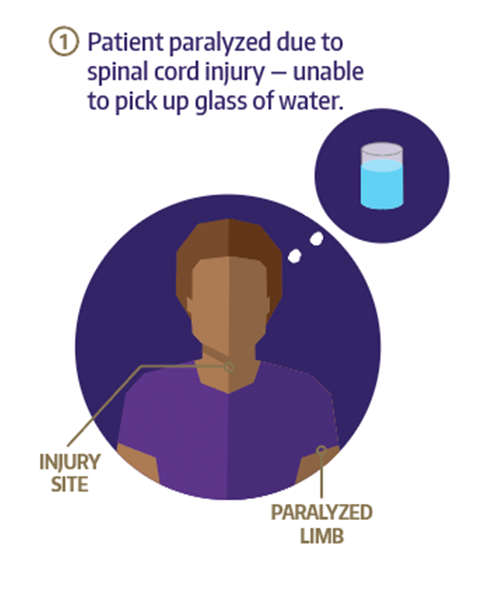
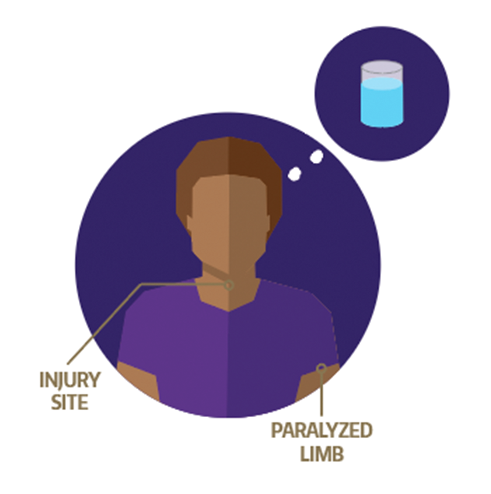
Updates to engineering story

diff --git a/immersive-stories/css/engineering.css b/immersive-stories/css/engineering.css
@@ -1,1 +1,1 @@
-.dropdown-arrow-inverse{border-bottom-color:#4b2e83 !important;border-top-color:#4b2e83 !important}body{width:100%;height:100%}body .uw-footer{margin-top:0}body video::-webkit-media-controls{display:none !important}body video::-webkit-media-controls-start-playback-button{display:none}p{color:#696969}@keyframes slidein{0%{-webkit-transform:translate(0, -100%);-ms-transform:translate(0, -100%);transform:translate(0, -100%);opacity:0}100%{-webkit-transform:translate(0, 0);-ms-transform:translate(0, 0);transform:translate(0, 0);opacity:1}}.intro{background-position:center top;-webkit-background-size:cover;-moz-background-size:cover;background-size:cover;-o-background-size:cover;width:100%;height:105vh;padding:100px 0;text-align:center;color:white;overflow:hidden;text-align:left}.intro h1{font-family:"Uni sans",sans-serif;color:#4b2e83;text-transform:uppercase;font-weight:normal;line-height:1;display:inline-block;position:relative}.intro h1:before,.intro h1:after{content:"";display:block;position:absolute;right:0;height:4px;width:300%;background-color:white}.intro h1:before{top:0}.intro h1:after{bottom:0}.engineerIntro .intro h1>span:first-child span{-webkit-animation:slidein 1.5s .1s ease forwards;animation:slidein 1.5s .1s ease forwards}.engineerIntro .intro h1>span:nth-child(2) span{-webkit-animation:slidein 1.5s .3s ease forwards;animation:slidein 1.5s .3s ease forwards}.engineerIntro .intro h1>span:last-child span{-webkit-animation:slidein 1.5s .5s ease forwards;animation:slidein 1.5s .5s ease forwards}.intro h1>span{overflow:hidden;display:block}.intro h1>span span{display:block;-webkit-transform:translate(0, -100%);-ms-transform:translate(0, -100%);transform:translate(0, -100%)}.intro h1>span:first-child{font-size:3.5vw;letter-spacing:0;margin-top:-10%;margin-bottom:20px}.intro h1>span:nth-child(2){font-family:"Encode Sans Compressed",sans-serif;font-weight:900;letter-spacing:0}.intro p{color:#5A5A5A}.intro .intro-body{position:relative;z-index:2}.intro a.read-more{display:block;position:absolute;left:50%;margin-left:-20px;text-indent:-999px;overflow:hidden;width:40px;height:50px;background:url("../../immersive-stories/img/sprite.svg") 0 0 no-repeat transparent;z-index:1}.intro a.read-more:hover,.intro a.read-more:active,.intro a.read-more:focus{-webkit-transform:translate(0, 10px);-ms-transform:translate(0, 10px);transform:translate(0, 10px)}@media (max-width:768px){.intro{background-image:url("../../immersive-stories/img/engineering/intro-alt-mobile.jpg");padding:0}.intro h1{margin-top:25vh}.intro p{font-size:14px;line-height:1.5}.intro a.read-more{top:calc(100vh - 70px)}.intro .intro-body #intro-text{padding:0 28% 0 20px}}@media (min-width:768px){.intro{background-image:url("../../immersive-stories/img/engineering/jayna.jpg");padding:0}.intro h1{font-size:6vw;margin-top:35vh;letter-spacing:-4px;-webkit-font-smoothing:antialiased}.intro p{padding-right:20%}.intro a.read-more{top:calc(100vh - 95px);bottom:auto}.intro .intro-body .brand-heading{font-size:100px}.intro .intro-body .intro-text{font-size:26px}}@media (min-width:1600px){.intro h1{font-size:6vw}}@media (max-width:400px){.intro h1{margin-top:46vh}.intro .intro-body #intro-text{padding:0}}.text-block{position:relative;z-index:1;background-color:white}.text-block .headline-gold{font-family:"Uni sans",sans-serif;text-align:center;color:#4b2e83;font-size:21px;line-height:1.5;font-weight:bold;text-transform:uppercase;margin-bottom:40px;margin:10px 0 40px}.text-block .headline-gold.left{text-align:left}.text-block .headline-gold a{color:#5f5f5f;border-bottom:1px solid #b7a57a}.text-block .headline-gold a:hover{color:black}.text-block .headline-gold span{font-family:"Encode Sans Compressed",sans-serif;font-weight:900;text-transform:uppercase;color:#4b2e83;display:block;font-size:30px;margin-top:14px;border-top:1px solid #ddd;border-bottom:1px solid #ddd;padding:25px;margin:25px 0 10px}.text-block .gold-quote{position:relative;margin:140px 0 160px;font-weight:bold}.text-block .gold-quote:after,.text-block .gold-quote:before{content:" ";position:absolute;width:385px;height:69px;background:url("../../immersive-stories/img/sprite.svg") 0 -101px no-repeat transparent;display:block;left:50%;margin-left:-192px}.text-block .gold-quote:before{top:-100px}.text-block .gold-quote:after{bottom:-100px;background-position:0 -195px}.text-block .center{text-align:center;font-size:15px}.text-block h3.headline-gold{font-size:22px;text-align:left;line-height:31px;margin-bottom:30px}.text-block .copy{margin-top:0;margin-bottom:-30px;background:#FFF;padding:20px 30px}.text-block p.caps:first-child:first-letter{float:left;color:#b7a57a;font-size:65px;line-height:58px;padding-top:0;padding-right:8px;padding-left:3px;font-family:"Uni sans",sans-serif;font-weight:400}@media (min-width:1200px){.text-block iframe{width:120%;margin:40px -10% 40px;height:538px !important}}@media (min-width:768px){.text-block .copy{margin-top:-50px;padding:80px 90px}.text-block .headline-gold{font-size:24px;line-height:41px}.text-block .gold-quote{font-size:26px}.text-block .gold-quote.lg-quote{font-size:36px}.text-block div.uw-slideshow{width:120%;margin:40px -10% 20px}.activeFullscreen .text-block div.uw-slideshow{margin:40px 0 20px 0}}button.close-video{position:absolute;border:none;top:-55px;right:0;z-index:9999;width:55px;height:55px;background:url("../../immersive-stories/img/sprite.svg") no-repeat -207px -286px rgba(0,0,0,0.2)}@keyframes blinker{0%,10%{opacity:0}25%,85%{opacity:.7}100%{opacity:0}}.playing .video-block{z-index:9999}.video-block{position:relative;z-index:0;-webkit-background-size:cover;-moz-background-size:cover;background-size:cover;-o-background-size:cover}.video-block .container{padding-top:280px;padding-bottom:30px}.video-block h2{font-family:"Uni sans",sans-serif;font-weight:300;font-size:22px;text-transform:uppercase;color:white;-webkit-font-smoothing:antialiased}.video-block p{color:white}.video-block p span.highlight{background-color:rgba(183,165,122,0.3);padding:0 10px}.video-block p span.sub{border-top:1px solid rgba(255,255,255,0.5);display:block;margin-top:20px;padding-top:30px;font-size:20px;line-height:20px}.video-block a{color:white;border-bottom:1px solid #fff}.video-block a:focus,.video-block a:active,.video-block a:hover{border-bottom-color:#4b2e83}.video-block a.play{position:relative;color:#fff;font-family:"Uni sans",sans-serif;text-transform:uppercase;font-size:25px;border-bottom:none}.video-block a.play:before,.video-block a.play:after{content:"";position:absolute;opacity:.8}.video-block a.play:after{background:url("../../immersive-stories/img/sprite.svg") no-repeat -79px -329px rgba(0,0,0,0);width:101px;height:95px;bottom:-15px;right:0;opacity:.8;-webkit-transition:all .1s linear;transition:all .1s linear}.video-block a.play:focus:after,.video-block a.play:active:after,.video-block a.play:hover:after{-webkit-transform:scale(1.1, 1.1);-ms-transform:scale(1.1, 1.1);transform:scale(1.1, 1.1)}.video-block a.play svg{-webkit-animation:blinker 1.2s linear infinite;animation:blinker 1.2s linear infinite;margin-left:-2px}@media (min-width:768px){.video-block{background-image:url("../../immersive-stories/img/engineering/jayna-video.jpg");text-align:left}.video-block .container{padding-top:150px;padding-bottom:240px}.video-block a.play{position:absolute;bottom:-150px;left:30px;padding:14px 150px 13px 20px;line-height:39px;-webkit-font-smoothing:antialiased}.video-block a.play:before{background:url("../../immersive-stories/img/sprite.svg") no-repeat 9px -289px rgba(0,0,0,0);width:52px;height:145px;bottom:-41px;right:100px;opacity:.8}.video-block a.play:focus,.video-block a.play:active{outline:15px solid rgba(183,165,122,0.4)}.video-block a.play:hover{outline:15px solid rgba(183,165,122,0.2)}.video-block h2{font-size:55px;text-align:left}.video-block p{padding-right:50%;text-align:left}}@media (max-width:768px){.video-block{background-position:-65px 0;background-image:url("../../immersive-stories/img/education/woman-in-headscarf-mobile.jpg")}.video-block .container{padding-top:110%;padding-left:30px;padding-right:30px}.video-block h2{font-size:40px}.video-block a.play{padding:31px 97px 14px 0;display:inline-block;font-size:20px}.iPhone .video-block a.play{pointer-events:none}.video-block a.play:after{-webkit-transform:scale(.75, .75);-ms-transform:scale(.75, .75);transform:scale(.75, .75)}}#youtube-video iframe{margin:0}@media (min-width:768px){#youtube-video{position:absolute;top:0;right:0;left:0;bottom:0;z-index:9999}}@media (max-width:768px){.iPhone #youtube-video iframe{margin:0;height:60px !important;position:absolute;right:0;left:0;z-index:999;bottom:40px;opacity:0}#youtube-video iframe{width:100% !important;height:42vw !important}}.video-auto{margin:0 0 20px;overflow:hidden;position:relative;z-index:10;-webkit-background-size:cover;-moz-background-size:cover;background-size:cover;-o-background-size:cover}.video-auto .pause{position:absolute;z-index:1;display:block;text-indent:-999px;overflow-x:hidden;width:45px;height:45px;left:20px;bottom:30px;border:none;background-image:url("../../immersive-stories/img/pause.svg");background-color:transparent}.video-auto .pause:hover,.video-auto .pause:focus{background-position-x:-47px}.video-auto .pause:focus{outline-color:#3b99fc;outline-style:auto;outline-width:5px}.video-auto video{width:100%;height:28vw}.video-auto .gold-quote{margin:140px 0 160px;font-weight:bold;font-family:"Uni sans",sans-serif;color:#4b2e83;text-transform:uppercase;text-align:center;font-size:23px;position:relative}.video-auto .gold-quote:after,.video-auto .gold-quote:before{content:" ";position:absolute;width:385px;height:69px;background:url("../../immersive-stories/img/sprite.svg") -420px -101px no-repeat transparent;display:block;left:50%;margin-left:-192px}.video-auto .gold-quote:before{top:-100px}.video-auto .gold-quote:after{bottom:-100px;background-position:-420px -195px}@media (min-width:768px){.video-auto .gold-quote{position:absolute;width:40%;z-index:1;top:50%;left:7%;margin-top:-60px}}.audio-block{width:100%;padding:50px 0;color:white;overflow:hidden}.audio-block .container{text-align:right}.audio-block #people{padding-left:0}.audio-block #people li{width:50%;margin:0;float:left;height:300px;-webkit-background-size:cover;-moz-background-size:cover;background-size:cover;-o-background-size:cover;background-position:center center;position:relative;overflow:hidden;display:inline-block;outline:5px solid #fff}.audio-block #people li:hover div.hider,.audio-block #people li:active div.hider,.audio-block #people li:focus div.hider,.audio-block #people li.active-focus div.hider,.audio-block #people li.active div.hider{-webkit-transform:scale(1, 1);-ms-transform:scale(1, 1);transform:scale(1, 1);opacity:1}.audio-block #people li.active div.hider:after{-webkit-transform:translate(0, 0);-ms-transform:translate(0, 0);transform:translate(0, 0)}.audio-block #people li a{text-decoration:underline}.audio-block #people li div.hider{-webkit-transform:scale(2, 2);-ms-transform:scale(2, 2);transform:scale(2, 2);position:absolute;top:0;left:0;right:0;bottom:0;padding:15% 10% 15%;background-color:rgba(183,165,122,0.69);-webkit-transition:all .1s linear;transition:all .1s linear;opacity:0;vertical-align:middle}.audio-block #people li .hider>p{font-size:14px;color:white;padding:5px 0;border:4px solid white;margin-bottom:-4px;background-color:#b7a57a}.audio-block #people li .hider>p span{font-weight:bold}.audio-block #people li h2{font-size:26px;text-transform:uppercase;font-family:"Uni sans",sans-serif;color:#b7a57a;background-color:#fff;padding:5px 0;margin:0}.audio-block #people .pax-1{background-image:url("../../immersive-stories/img/engineering/raj.jpg")}.audio-block #people .pax-2{background-image:url("../../immersive-stories/img/engineering/kat.jpg")}.audio-block #people .pax-3{background-image:url("../../immersive-stories/img/engineering/raj.jpg")}.audio-block #people .pax-4{background-image:url("../../immersive-stories/img/engineering/chet.jpg")}@media (min-width:768px){.audio-block #people li{width:25%;height:400px;display:table}.audio-block #people li div.hider{padding:0 15%;display:table-cell;position:static}.audio-block #people li div.hider>p{font-size:15px}}@media only screen and (min-width:768px) and (max-width:992px){.audio-block #people li{width:50%}}@media (max-width:768px){.audio-block #people li{height:350px;width:100%}}#chart{margin:10px 0 40px;text-align:center}#chart .center{text-align:center}#chart .headline-gold{font-family:"Uni sans",sans-serif;text-align:center;color:#b7a57a;font-size:33px;line-height:1.3;font-weight:bold;text-transform:uppercase;margin-bottom:40px;margin:50px 0 40px}@media (min-width:768px){#chart div img:nth-child(1),#chart div img:nth-child(3){width:24.5%}#chart div img:nth-child(2){width:47%}}
+.dropdown-arrow-inverse{border-bottom-color:#4b2e83 !important;border-top-color:#4b2e83 !important}body{width:100%;height:100%}body .uw-footer{margin-top:0}body video::-webkit-media-controls{display:none !important}body video::-webkit-media-controls-start-playback-button{display:none}#main_content{position:relative;z-index:10}p{color:#696969}@keyframes slidein{0%{-webkit-transform:translate(0, -100%);-ms-transform:translate(0, -100%);transform:translate(0, -100%);opacity:0}100%{-webkit-transform:translate(0, 0);-ms-transform:translate(0, 0);transform:translate(0, 0);opacity:1}}.intro{background-position:center top;-webkit-background-size:cover;-moz-background-size:cover;background-size:cover;-o-background-size:cover;width:100%;height:105vh;padding:100px 0;text-align:center;color:white;overflow:hidden;text-align:left}.intro h1{font-family:"Uni sans",sans-serif;color:#4b2e83;text-transform:uppercase;font-weight:normal;line-height:1;display:inline-block;position:relative}.intro h1:before,.intro h1:after{content:"";display:block;position:absolute;right:0;height:4px;width:300%;background-color:white}.intro h1:before{top:0}.intro h1:after{bottom:0}.engineerIntro .intro h1>span:first-child span{-webkit-animation:slidein 1.5s .1s ease forwards;animation:slidein 1.5s .1s ease forwards}.engineerIntro .intro h1>span:nth-child(2) span{-webkit-animation:slidein 1.5s .3s ease forwards;animation:slidein 1.5s .3s ease forwards}.engineerIntro .intro h1>span:last-child span{-webkit-animation:slidein 1.5s .5s ease forwards;animation:slidein 1.5s .5s ease forwards}.intro h1>span{overflow:hidden;display:block}.intro h1>span span{display:block;-webkit-transform:translate(0, -100%);-ms-transform:translate(0, -100%);transform:translate(0, -100%)}.intro h1>span:first-child{font-size:3.5vw;letter-spacing:0;margin-top:-10%;margin-bottom:20px}.intro h1>span:nth-child(2){font-family:"Encode Sans Compressed",sans-serif;font-weight:900;letter-spacing:0}.intro p{color:#5A5A5A}.intro .intro-body{position:relative;z-index:2}.intro a.read-more{display:block;position:absolute;left:50%;margin-left:-20px;text-indent:-999px;overflow:hidden;width:40px;height:50px;background:url("../../immersive-stories/img/sprite.svg") 0 0 no-repeat transparent;z-index:1}.intro a.read-more:hover,.intro a.read-more:active,.intro a.read-more:focus{-webkit-transform:translate(0, 10px);-ms-transform:translate(0, 10px);transform:translate(0, 10px)}@media (max-width:768px){.intro{background-image:url("../../immersive-stories/img/engineering/intro-alt-mobile.jpg");padding:0}.intro h1{margin-top:25vh}.intro p{font-size:14px;line-height:1.5}.intro a.read-more{top:calc(100vh - 70px)}.intro .intro-body #intro-text{padding:0 28% 0 20px}}@media (min-width:768px){.intro{background-image:url("../../immersive-stories/img/engineering/jayna.jpg");padding:0}.intro h1{font-size:6vw;margin-top:35vh;letter-spacing:-4px;-webkit-font-smoothing:antialiased}.intro p{padding-right:20%}.intro a.read-more{top:calc(100vh - 95px);bottom:auto}.intro .intro-body .brand-heading{font-size:100px}.intro .intro-body .intro-text{font-size:26px}}@media (min-width:1600px){.intro h1{font-size:6vw}}@media (max-width:400px){.intro h1{margin-top:46vh}.intro .intro-body #intro-text{padding:0}}.text-block{position:relative;z-index:1;background-color:white}.text-block .headline-gold{font-family:"Uni sans",sans-serif;text-align:center;color:#4b2e83;font-size:21px;line-height:1.5;font-weight:bold;text-transform:uppercase;margin-bottom:40px;margin:10px 0 40px}.text-block .headline-gold.left{text-align:left}.text-block .headline-gold a{color:#5f5f5f;border-bottom:1px solid #b7a57a}.text-block .headline-gold a:hover{color:black}.text-block .headline-gold span{font-family:"Encode Sans Compressed",sans-serif;font-weight:900;text-transform:uppercase;color:#4b2e83;display:block;font-size:30px;margin-top:14px;border-top:1px solid #ddd;border-bottom:1px solid #ddd;padding:25px;margin:25px 0 10px}.text-block .gold-quote{position:relative;margin:140px 0 160px;font-weight:bold}.text-block .gold-quote:after,.text-block .gold-quote:before{content:" ";position:absolute;width:385px;height:69px;background:url("../../immersive-stories/img/sprite.svg") 0 -101px no-repeat transparent;display:block;left:50%;margin-left:-192px}.text-block .gold-quote:before{top:-100px}.text-block .gold-quote:after{bottom:-100px;background-position:0 -195px}.text-block .center{text-align:center;font-size:15px}.text-block h3.headline-gold{font-size:22px;text-align:left;line-height:31px;margin-bottom:30px}.text-block .copy{margin-top:0;margin-bottom:-30px;background:#FFF;padding:20px 30px}.text-block p.caps:first-child:first-letter{float:left;color:#b7a57a;font-size:65px;line-height:58px;padding-top:0;padding-right:8px;padding-left:3px;font-family:"Uni sans",sans-serif;font-weight:400}@media (min-width:1200px){.text-block iframe{width:120%;margin:40px -10% 40px;height:538px !important}}@media (min-width:768px){.text-block .copy{margin-top:-50px;padding:80px 90px}.text-block .headline-gold{font-size:24px;line-height:41px}.text-block .gold-quote{font-size:26px}.text-block .gold-quote.lg-quote{font-size:36px}.text-block div.uw-slideshow{width:120%;margin:40px -10% 20px}.activeFullscreen .text-block div.uw-slideshow{margin:40px 0 20px 0}}button.close-video{position:absolute;border:none;top:-55px;right:0;z-index:9999;width:55px;height:55px;background:url("../../immersive-stories/img/sprite.svg") no-repeat -207px -286px rgba(0,0,0,0.2)}@keyframes blinker{0%,10%{opacity:0}25%,85%{opacity:.7}100%{opacity:0}}.playing .video-block{z-index:9999}.video-block{position:relative;z-index:0;-webkit-background-size:cover;-moz-background-size:cover;background-size:cover;-o-background-size:cover}.video-block .container{padding-top:280px;padding-bottom:30px}.video-block h2{font-family:"Uni sans",sans-serif;font-weight:300;font-size:22px;text-transform:uppercase;color:white;-webkit-font-smoothing:antialiased}.video-block p{color:white}.video-block p span.highlight{background-color:rgba(183,165,122,0.3);padding:0 10px}.video-block p span.sub{border-top:1px solid rgba(255,255,255,0.5);display:block;margin-top:20px;padding-top:30px;font-size:20px;line-height:20px}.video-block a{color:white;border-bottom:1px solid #fff}.video-block a:focus,.video-block a:active,.video-block a:hover{border-bottom-color:#4b2e83}.video-block a.play{position:relative;color:#fff;font-family:"Uni sans",sans-serif;text-transform:uppercase;font-size:25px;border-bottom:none}.video-block a.play:before,.video-block a.play:after{content:"";position:absolute;opacity:.8}.video-block a.play:after{background:url("../../immersive-stories/img/sprite.svg") no-repeat -79px -329px rgba(0,0,0,0);width:101px;height:95px;bottom:-15px;right:0;opacity:.8;-webkit-transition:all .1s linear;transition:all .1s linear}.video-block a.play:focus:after,.video-block a.play:active:after,.video-block a.play:hover:after{-webkit-transform:scale(1.1, 1.1);-ms-transform:scale(1.1, 1.1);transform:scale(1.1, 1.1)}.video-block a.play svg{-webkit-animation:blinker 1.2s linear infinite;animation:blinker 1.2s linear infinite;margin-left:-2px}@media (min-width:768px){.video-block{background-image:url("../../immersive-stories/img/engineering/jayna-video.jpg");text-align:left}.video-block .container{padding-top:150px;padding-bottom:240px}.video-block a.play{position:absolute;bottom:-150px;left:30px;padding:14px 150px 13px 20px;line-height:39px;-webkit-font-smoothing:antialiased}.video-block a.play:before{background:url("../../immersive-stories/img/sprite.svg") no-repeat 9px -289px rgba(0,0,0,0);width:52px;height:145px;bottom:-41px;right:100px;opacity:.8}.video-block a.play:focus,.video-block a.play:active{outline:15px solid rgba(183,165,122,0.4)}.video-block a.play:hover{outline:15px solid rgba(183,165,122,0.2)}.video-block h2{font-size:55px;text-align:left}.video-block p{padding-right:50%;text-align:left}}@media (max-width:768px){.video-block{background-position:-65px 0;background-image:url("../../immersive-stories/img/education/woman-in-headscarf-mobile.jpg")}.video-block .container{padding-top:110%;padding-left:30px;padding-right:30px}.video-block h2{font-size:40px}.video-block a.play{padding:31px 97px 14px 0;display:inline-block;font-size:20px}.iPhone .video-block a.play{pointer-events:none}.video-block a.play:after{-webkit-transform:scale(.75, .75);-ms-transform:scale(.75, .75);transform:scale(.75, .75)}}#youtube-video iframe{margin:0}@media (min-width:768px){#youtube-video{position:absolute;top:0;right:0;left:0;bottom:0;z-index:9999}}@media (max-width:768px){.iPhone #youtube-video iframe{margin:0;height:60px !important;position:absolute;right:0;left:0;z-index:999;bottom:40px;opacity:0}#youtube-video iframe{width:100% !important;height:42vw !important}}.video-auto{margin:0 0 20px;overflow:hidden;position:relative;z-index:10;-webkit-background-size:cover;-moz-background-size:cover;background-size:cover;-o-background-size:cover}.video-auto .pause{position:absolute;z-index:1;display:block;text-indent:-999px;overflow-x:hidden;width:45px;height:45px;left:20px;bottom:30px;border:none;background-image:url("../../immersive-stories/img/pause.svg");background-color:transparent}.video-auto .pause:hover,.video-auto .pause:focus{background-position-x:-47px}.video-auto .pause:focus{outline-color:#3b99fc;outline-style:auto;outline-width:5px}.video-auto video{width:100%;height:28vw}.video-auto .gold-quote{margin:140px 0 160px;font-weight:bold;font-family:"Uni sans",sans-serif;color:#4b2e83;text-transform:uppercase;text-align:center;font-size:23px;position:relative}.video-auto .gold-quote:after,.video-auto .gold-quote:before{content:" ";position:absolute;width:385px;height:69px;background:url("../../immersive-stories/img/sprite.svg") -420px -101px no-repeat transparent;display:block;left:50%;margin-left:-192px}.video-auto .gold-quote:before{top:-100px}.video-auto .gold-quote:after{bottom:-100px;background-position:-420px -195px}@media (min-width:768px){.video-auto .gold-quote{position:absolute;width:40%;z-index:1;top:50%;left:7%;margin-top:-60px}}.audio-block{width:100%;padding:50px 0;color:white;overflow:hidden}.audio-block .container{text-align:right}.audio-block #people{padding-left:0}.audio-block #people li{width:50%;margin:0;float:left;height:300px;-webkit-background-size:cover;-moz-background-size:cover;background-size:cover;-o-background-size:cover;background-position:center top;position:relative;overflow:hidden;display:inline-block;outline:5px solid #fff}.audio-block #people li:hover div.hider,.audio-block #people li:active div.hider,.audio-block #people li:focus div.hider,.audio-block #people li.active-focus div.hider,.audio-block #people li.active div.hider{-webkit-transform:scale(1, 1);-ms-transform:scale(1, 1);transform:scale(1, 1);opacity:1}.audio-block #people li.active div.hider:after{-webkit-transform:translate(0, 0);-ms-transform:translate(0, 0);transform:translate(0, 0)}.audio-block #people li a{text-decoration:underline}.audio-block #people li div.hider{-webkit-transform:scale(2, 2);-ms-transform:scale(2, 2);transform:scale(2, 2);position:absolute;top:0;left:0;right:0;bottom:0;padding:15% 10% 15%;background-color:rgba(183,165,122,0.69);-webkit-transition:all .1s linear;transition:all .1s linear;opacity:0;vertical-align:middle}.audio-block #people li .hider>p{font-size:14px;color:white;padding:5px 0;border:4px solid white;margin-bottom:-4px;background-color:#b7a57a}.audio-block #people li .hider>p span{font-weight:bold}.audio-block #people li h2{font-size:26px;text-transform:uppercase;font-family:"Uni sans",sans-serif;color:#b7a57a;background-color:#fff;padding:5px 0;margin:0}.audio-block #people .pax-1{background-image:url("../../immersive-stories/img/engineering/raj.jpg")}.audio-block #people .pax-2{background-image:url("../../immersive-stories/img/engineering/kat.jpg")}.audio-block #people .pax-3{background-image:url("../../immersive-stories/img/engineering/raj.jpg")}.audio-block #people .pax-4{background-image:url("../../immersive-stories/img/engineering/chet.jpg")}@media (min-width:768px){.audio-block #people li{width:25%;height:400px}.audio-block #people li div.hider{padding:35% 15% 0}.audio-block #people li div.hider>p{font-size:15px}}@media only screen and (min-width:768px) and (max-width:992px){.audio-block #people li{width:50%}}@media (max-width:768px){.audio-block #people li{height:350px;width:100%}}#chart{margin:10px 0 40px;text-align:center}#chart .center{text-align:center}#chart .headline-gold{font-family:"Uni sans",sans-serif;text-align:center;color:#b7a57a;font-size:33px;line-height:1.3;font-weight:bold;text-transform:uppercase;margin-bottom:40px;margin:50px 0 40px}@media (min-width:768px){#chart>div{vertical-align:top}#chart>div p{font-family:"Encode Sans Compressed",sans-serif;color:#4b2e83;font-weight:bold;text-align:left;line-height:1.3;font-size:17px;padding:0 20px 0 30px}#chart>div p span{display:inline-block;border:2px solid #b7a57a;color:#b7a57a;font-weight:900;-webkit-border-radius:100%;-moz-border-radius:100%;border-radius:100%;-moz-background-clip:padding;-webkit-background-clip:padding-box;background-clip:padding-box;padding:0 7px;line-height:1.3;margin-right:10px;margin-left:-35px}#chart>div div{display:inline-block;vertical-align:top;padding:20px}#chart>div div:nth-child(1),#chart>div div:nth-child(3){width:24.5%}#chart>div div:nth-child(2){width:47%}}

diff --git a/immersive-stories/less/engineering.less b/immersive-stories/less/engineering.less
@@ -32,6 +32,10 @@ body {
       display: none;
     }
 }
+#main_content {
+	position: relative;
+	z-index: 10;
+}
 p {
     color: #696969;
 }
@@ -644,7 +648,7 @@ button.close-video {
             float: left;
             height: 300px;
             .background-cover(cover);
-            background-position: center center;
+            background-position: center top;
             position: relative;
             overflow: hidden;
             display: inline-block;
@@ -714,11 +718,8 @@ button.close-video {
             li {
                 width: 25%;
                 height: 400px;
-                display: table;
                 div.hider {
-                    padding: 0 15%;
-                    display: table-cell;
-                    position: static;
+                    padding: 35% 15% 0;
                 }
                 div.hider > p {
                     font-size: 15px;
@@ -761,12 +762,38 @@ button.close-video {
 	margin: 10px 0 40px;
 	text-align: center;
 	@media(min-width:768px) {
-		div {
-			img:nth-child(1),
-			img:nth-child(3) {
+		& > div {
+			vertical-align: top;
+			p {
+				font-family: @font-family-headline;
+				color: @purple;
+				font-weight: bold;
+				text-align: left;
+				line-height: 1.3;
+				font-size: 17px;
+				padding: 0 20px 0 30px;
+				span {
+					display: inline-block;
+					border: 2px solid @lightgold;
+					color: @lightgold;
+					font-weight: @ultra;
+					.border-radius(100%);
+    				padding: 0px 7px;
+    				line-height: 1.3;
+    				margin-right: 10px;
+    				margin-left: -35px;
+				}
+			}
+			div {
+				display: inline-block;
+				vertical-align: top;
+				padding: 20px;
+			}
+			div:nth-child(1),
+			div:nth-child(3) {
 				width: 24.5%;
 			}
-			img:nth-child(2) {
+			div:nth-child(2) {
 				width: 47%;
 			}
 		}

diff --git a/page-engineering.php b/page-engineering.php
@@ -149,9 +149,16 @@
       <section id="chart">
         <p class="headline-gold center">ECoG/Brain Activity Controlling <br>Electronic Limb</p> 
         <div>
-          <img src="<?php echo get_stylesheet_directory_uri() . '/immersive-stories/img/engineering/chart-1.png' ?>" alt="">
-          <img src="<?php echo get_stylesheet_directory_uri() . '/immersive-stories/img/engineering/chart-2.png' ?>" alt="">
-          <img src="<?php echo get_stylesheet_directory_uri() . '/immersive-stories/img/engineering/chart-3.png' ?>" alt="">
+          <div>
+            <p><span>1</span>Patient paralyzed due to spinal cord injury - unable to pick up glass of water.</p>
+            <img src="<?php echo get_stylesheet_directory_uri() . '/immersive-stories/img/engineering/chart-1.png' ?>" alt="">
+          </div><div>
+            <p><span>2</span>ECoG record brain activity, is tranlsated by an external computer, which sends information to a robotic arm in response to patient's tought.</p>
+            <img src="<?php echo get_stylesheet_directory_uri() . '/immersive-stories/img/engineering/chart-2.png' ?>" alt="">
+          </div><div>
+            <p><span>3</span>Robotic arm responds to patient's thoughts.</p>
+            <img src="<?php echo get_stylesheet_directory_uri() . '/immersive-stories/img/engineering/chart-3.png' ?>" alt="">
+          </div>
         </div>
       </section>
 
